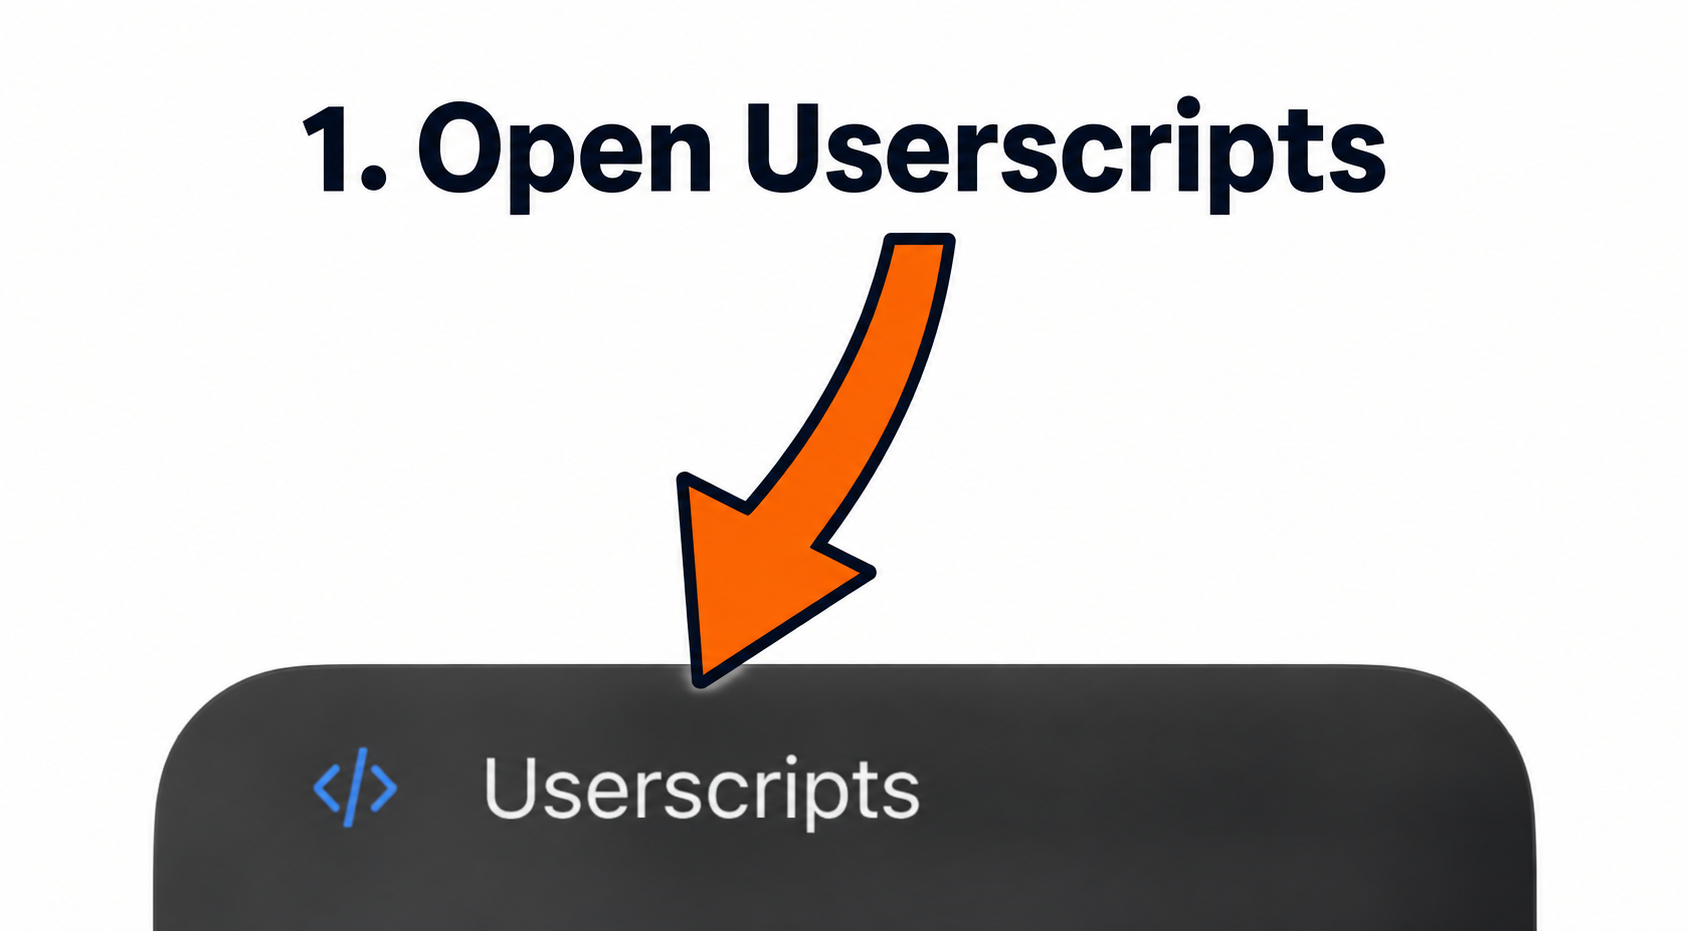
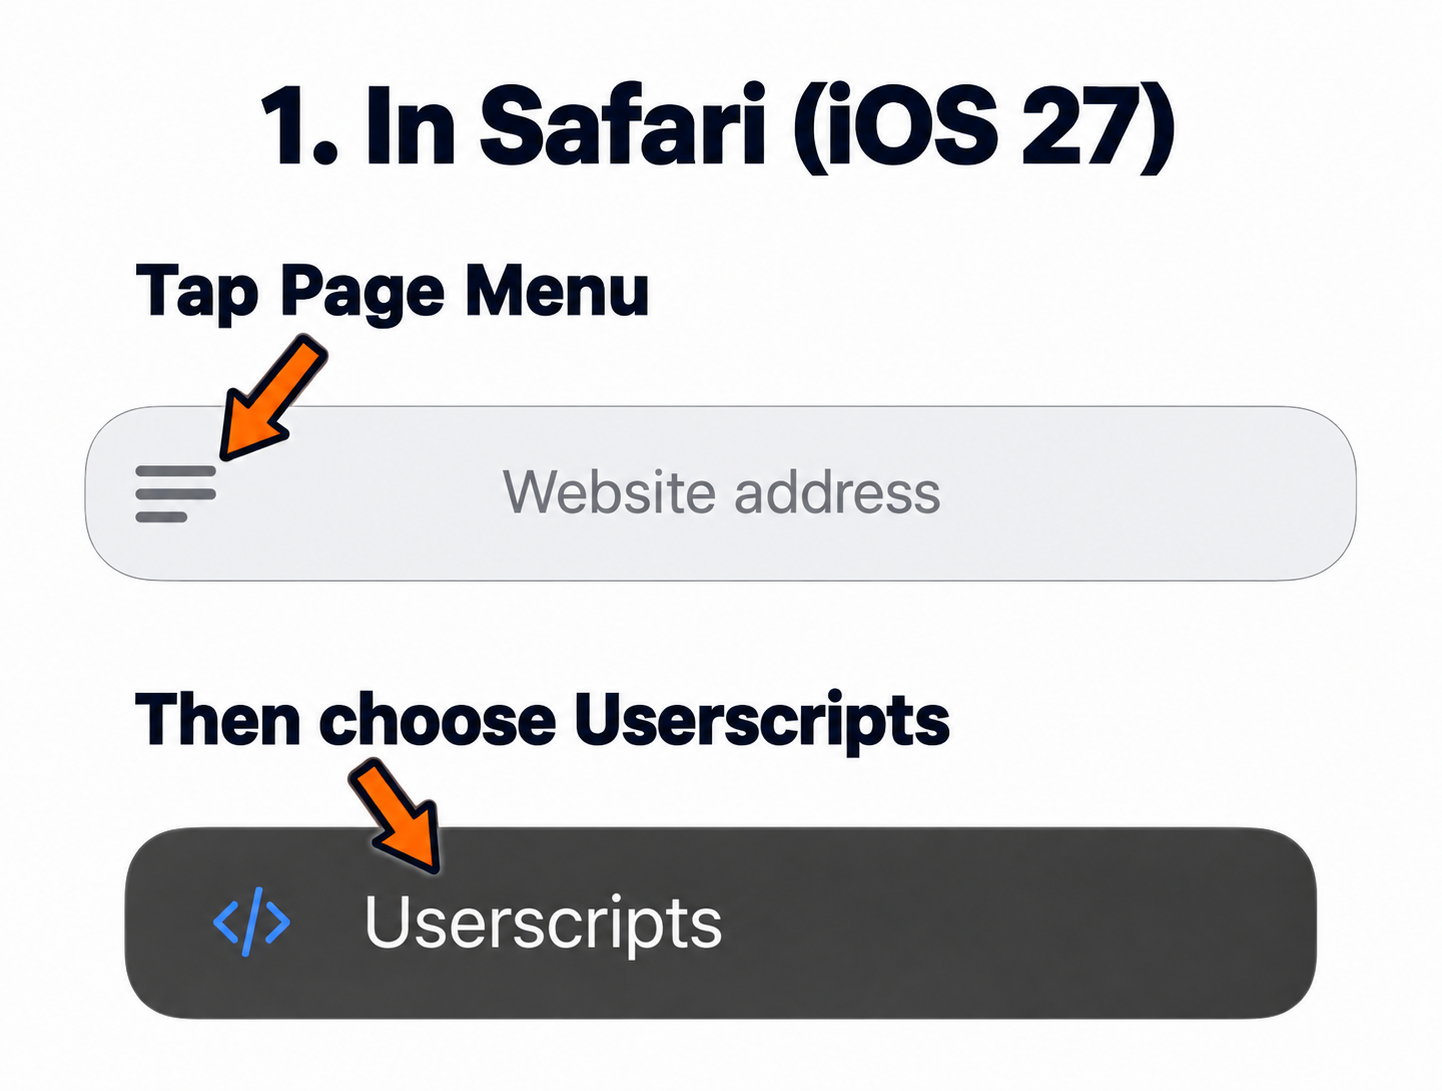
Show the iOS 27 Safari Page Menu in installation step one

Changed region(s): [[0.0624, 0.2492, 0.9362, 1.0], [0.0936, 0.0623, 0.8426, 0.4984]]

diff --git a/web/index.html b/web/index.html
@@ -6,7 +6,7 @@
 <section id="setup"><h2>One-tap bookmark</h2><p>No extension needed. When an article gets stuck, tap this bookmark to open it here.</p><p><a id="bookmarklet">Read with reCSSitate</a> <button id="copy-bookmarklet" type="button">Copy bookmarklet</button></p><label for="bookmarklet-code">Bookmark address</label><textarea id="bookmarklet-code" readonly rows="3"></textarea><p>On iPhone: bookmark this page, then open Safari’s bookmarks, tap Edit, and replace that bookmark’s address with the copied code. Name it “reCSSitate”. Open a news article and choose the bookmark to use it.</p><h2>Automatic rescue button</h2><p>Install the free <a href="https://github.com/quoid/userscripts" rel="noreferrer">Userscripts extension for Safari</a>, enable it in iOS Settings → Apps → Safari → Extensions, and allow it on the news sites you read. Then open the script below and choose Userscripts from Safari’s extensions menu to install it.</p><p><a href="/recssitate.user.js">Install reCSSitate userscript</a></p><details id="ios-install"><summary>iPhone installation, step by step</summary>
 <p>After enabling the Userscripts Safari extension, open the script link above. Seeing JavaScript source is expected. Allow Userscripts access to your reader server.</p>
 <div class="install-steps">
-<figure><img src="/assets/ios-install/01-open-userscripts.png" alt="Step 1: choose Userscripts in Safari’s page or extension menu." loading="lazy"><figcaption>Open Safari’s page or extension menu and choose <strong>Userscripts</strong>.</figcaption></figure>
+<figure><img src="/assets/ios-install/01-open-userscripts.png" alt="Step 1: in Safari on iOS 27, tap the three-line Page Menu icon at the left of the address field, then choose Userscripts." loading="lazy"><figcaption>In the <strong>Safari app on iOS 27</strong>, tap <strong>Page Menu</strong> at the <strong>left of the address field</strong>—the three-line icon with a shorter bottom line. Then choose <strong>Userscripts</strong>. If the toolbar is hidden, tap the bottom of the screen to reveal it.</figcaption></figure>
 <figure><img src="/assets/ios-install/02-detected.png" alt="Step 2: tap the yellow Userscript Detected banner." loading="lazy"><figcaption>Tap the yellow <strong>Userscript Detected: Tap to install</strong> banner.</figcaption></figure>
 <figure><img src="/assets/ios-install/03-install.png" alt="Step 3: review reCSSitate and tap the blue Install button at the bottom." loading="lazy"><figcaption>Check that the script is <strong>reCSSitate</strong>, then tap <strong>Install</strong> at the bottom. The checkmark at the top only closes the popup.</figcaption></figure>
 <figure><img src="/assets/ios-install/04-installed.png" alt="Step 4: confirm the green installed banner and tap the blue checkmark to close." loading="lazy"><figcaption>The green banner confirms installation. Leave the switch on and tap the blue checkmark to close. You do not need to re-install.</figcaption></figure>

diff --git a/docs/IOS.md b/docs/IOS.md
@@ -5,11 +5,16 @@ enable its Safari extension and allow access to your reader server and the sites
 where you want the rescue button. Open your reader's landing page in Safari and
 tap **Install reCSSitate userscript**. Seeing JavaScript source is expected.
 
-## 1. Open Userscripts
+## 1. Open Page Menu inside Safari (iOS 27)
 
-Open Safari's page/extension menu and choose **Userscripts**.
+Keep the script page open in the **Safari app**. Tap the **Page Menu** button
+on the **left side of the address/search field**: three horizontal lines with
+a shorter bottom line. Then choose **Userscripts** from that menu.
 
-<img src="../web/assets/ios-install/01-open-userscripts.png" alt="Arrow pointing to the Userscripts entry in Safari's extension menu." width="640">
+The address field may be at the top or bottom depending on your Safari layout.
+If the toolbar is hidden, tap the bottom of the screen to reveal it.
+
+<img src="../web/assets/ios-install/01-open-userscripts.png" alt="In Safari on iOS 27, tap the three-line Page Menu icon at the left of the address field, then choose Userscripts." width="640">
 
 ## 2. Tap the yellow install banner
 
@@ -44,3 +49,7 @@ from your own reader server and Userscripts has access to that server.
 These annotated illustrations are adapted from user-supplied screenshots.
 Code and deployment details have been omitted. Layout may vary by iOS and
 Userscripts version.
+
+The iOS 27 Page Menu icon and its location were checked against
+[Apple’s iOS 27 Safari guide](https://support.apple.com/guide/iphone/customize-your-safari-settings-iphb3100d149/27/ios/27).
+Step 1 illustrates the address field and menu choice; it is not a full-screen capture.
